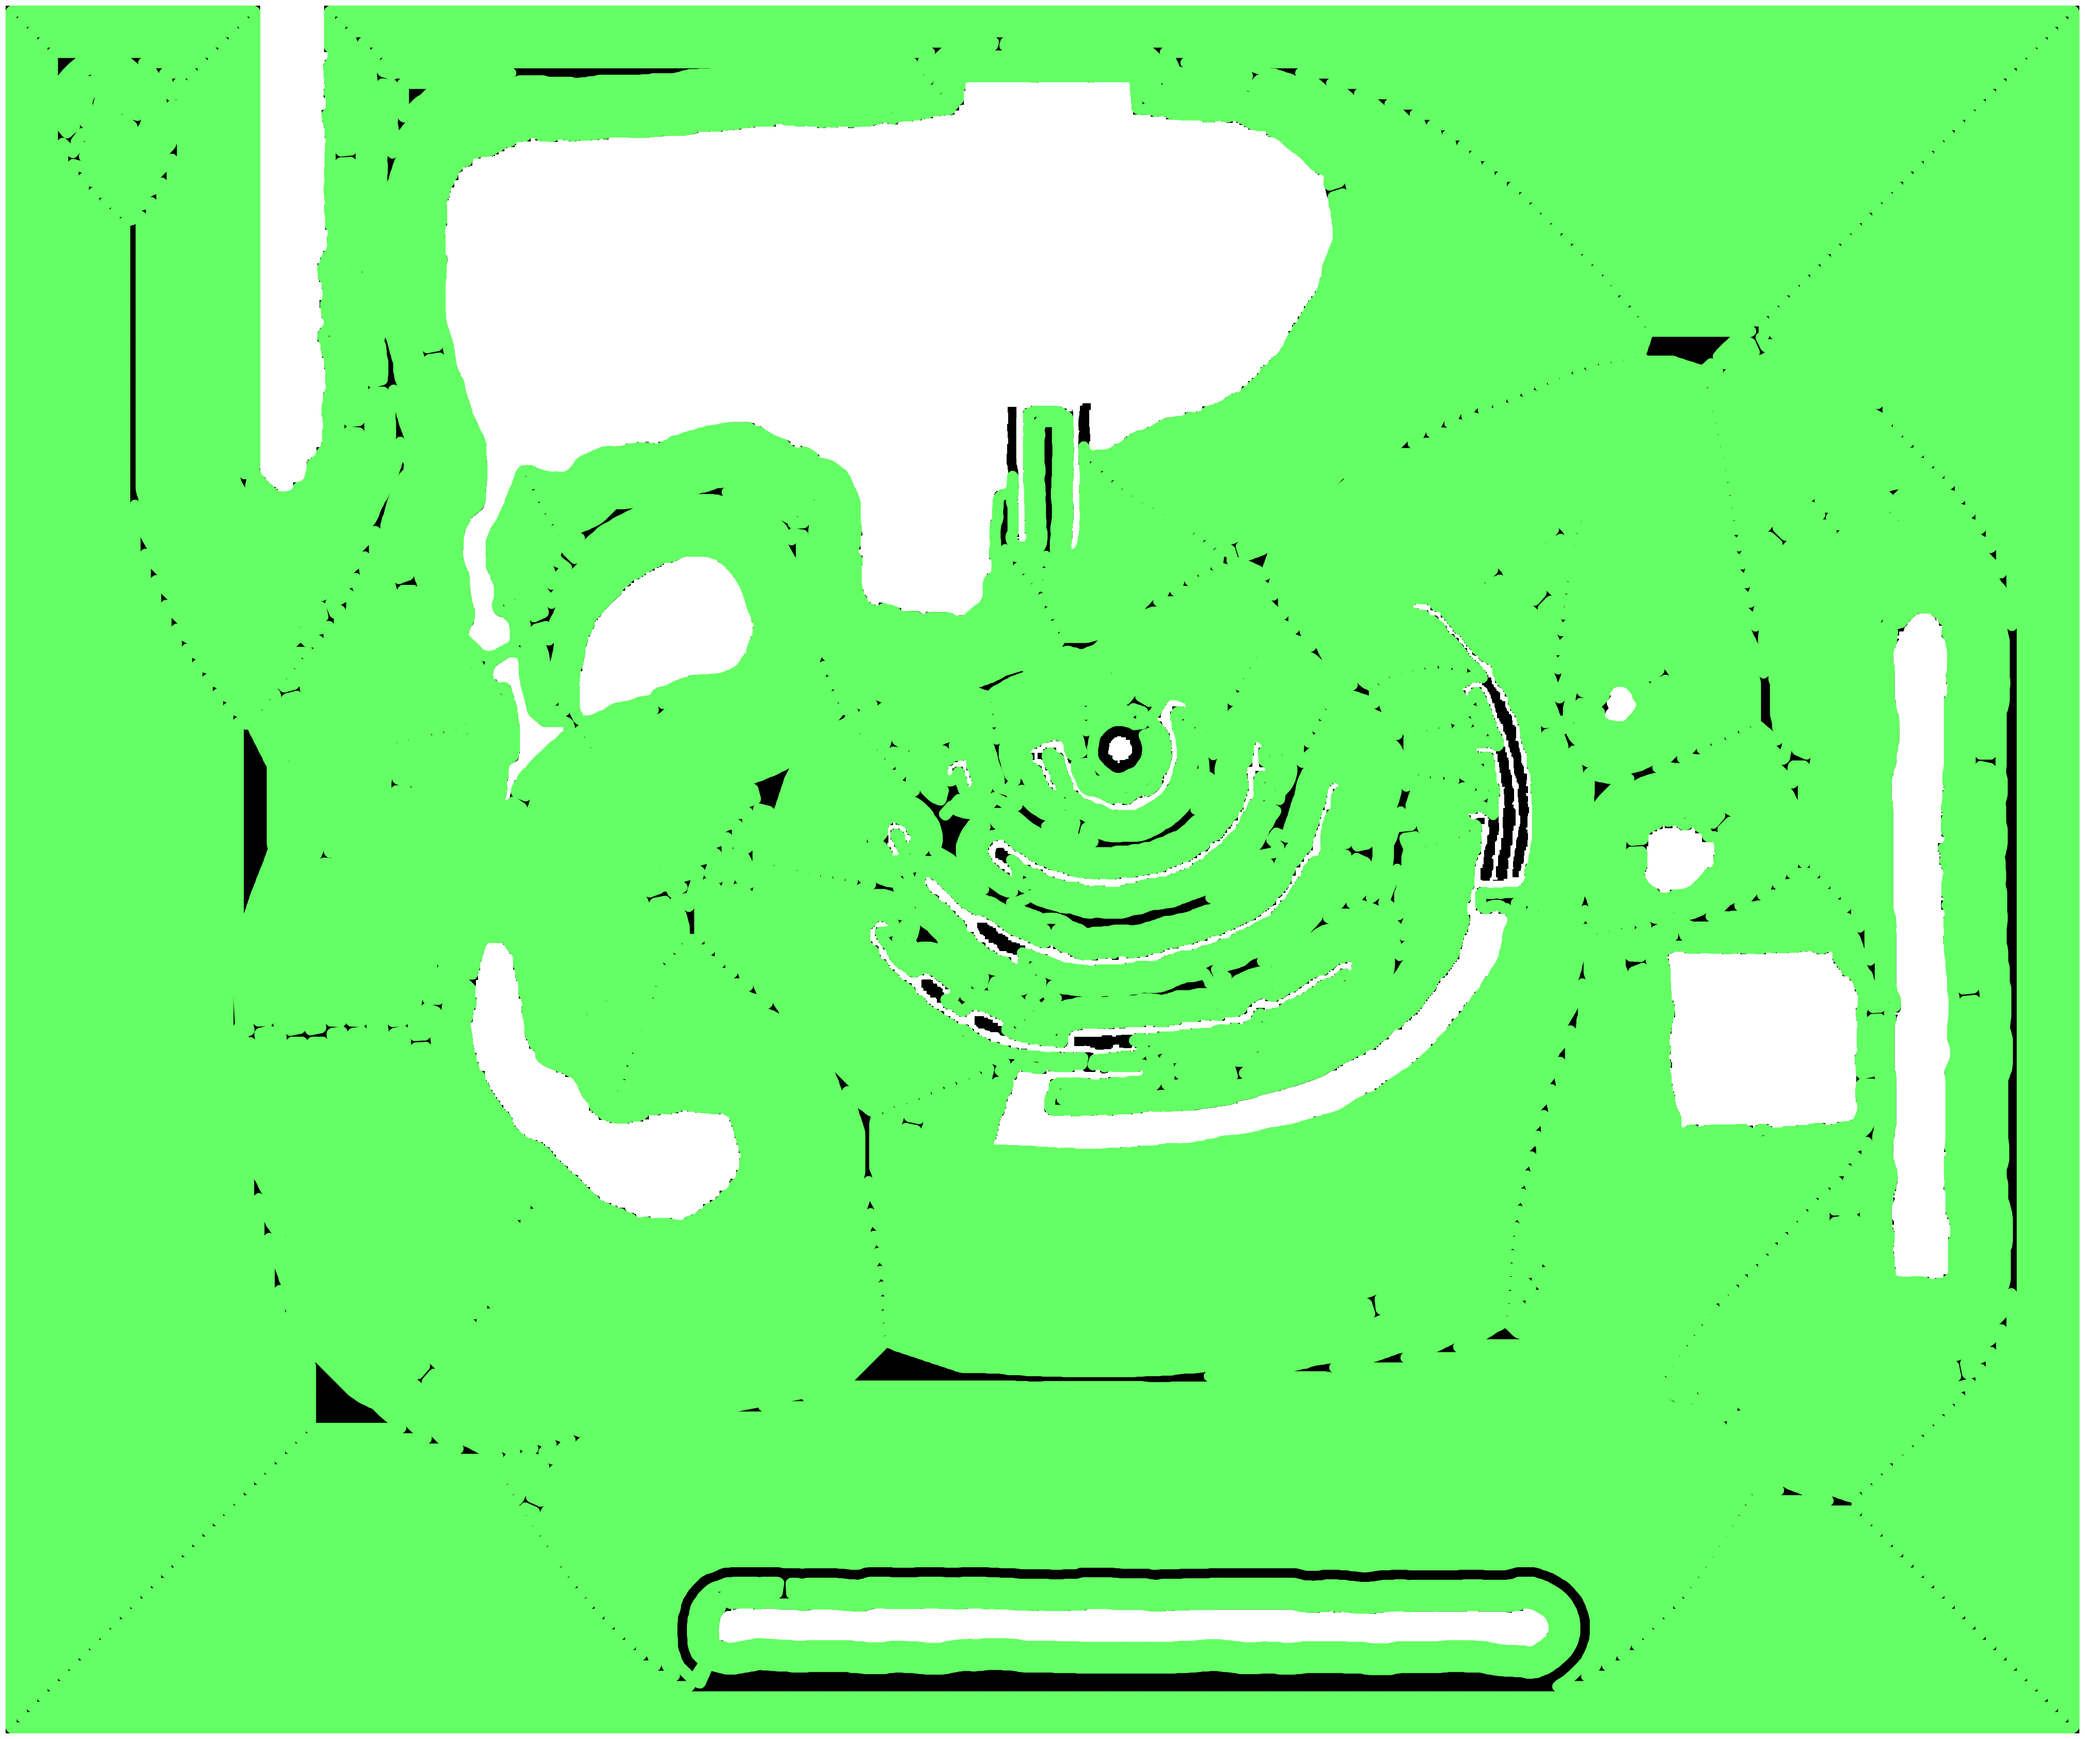
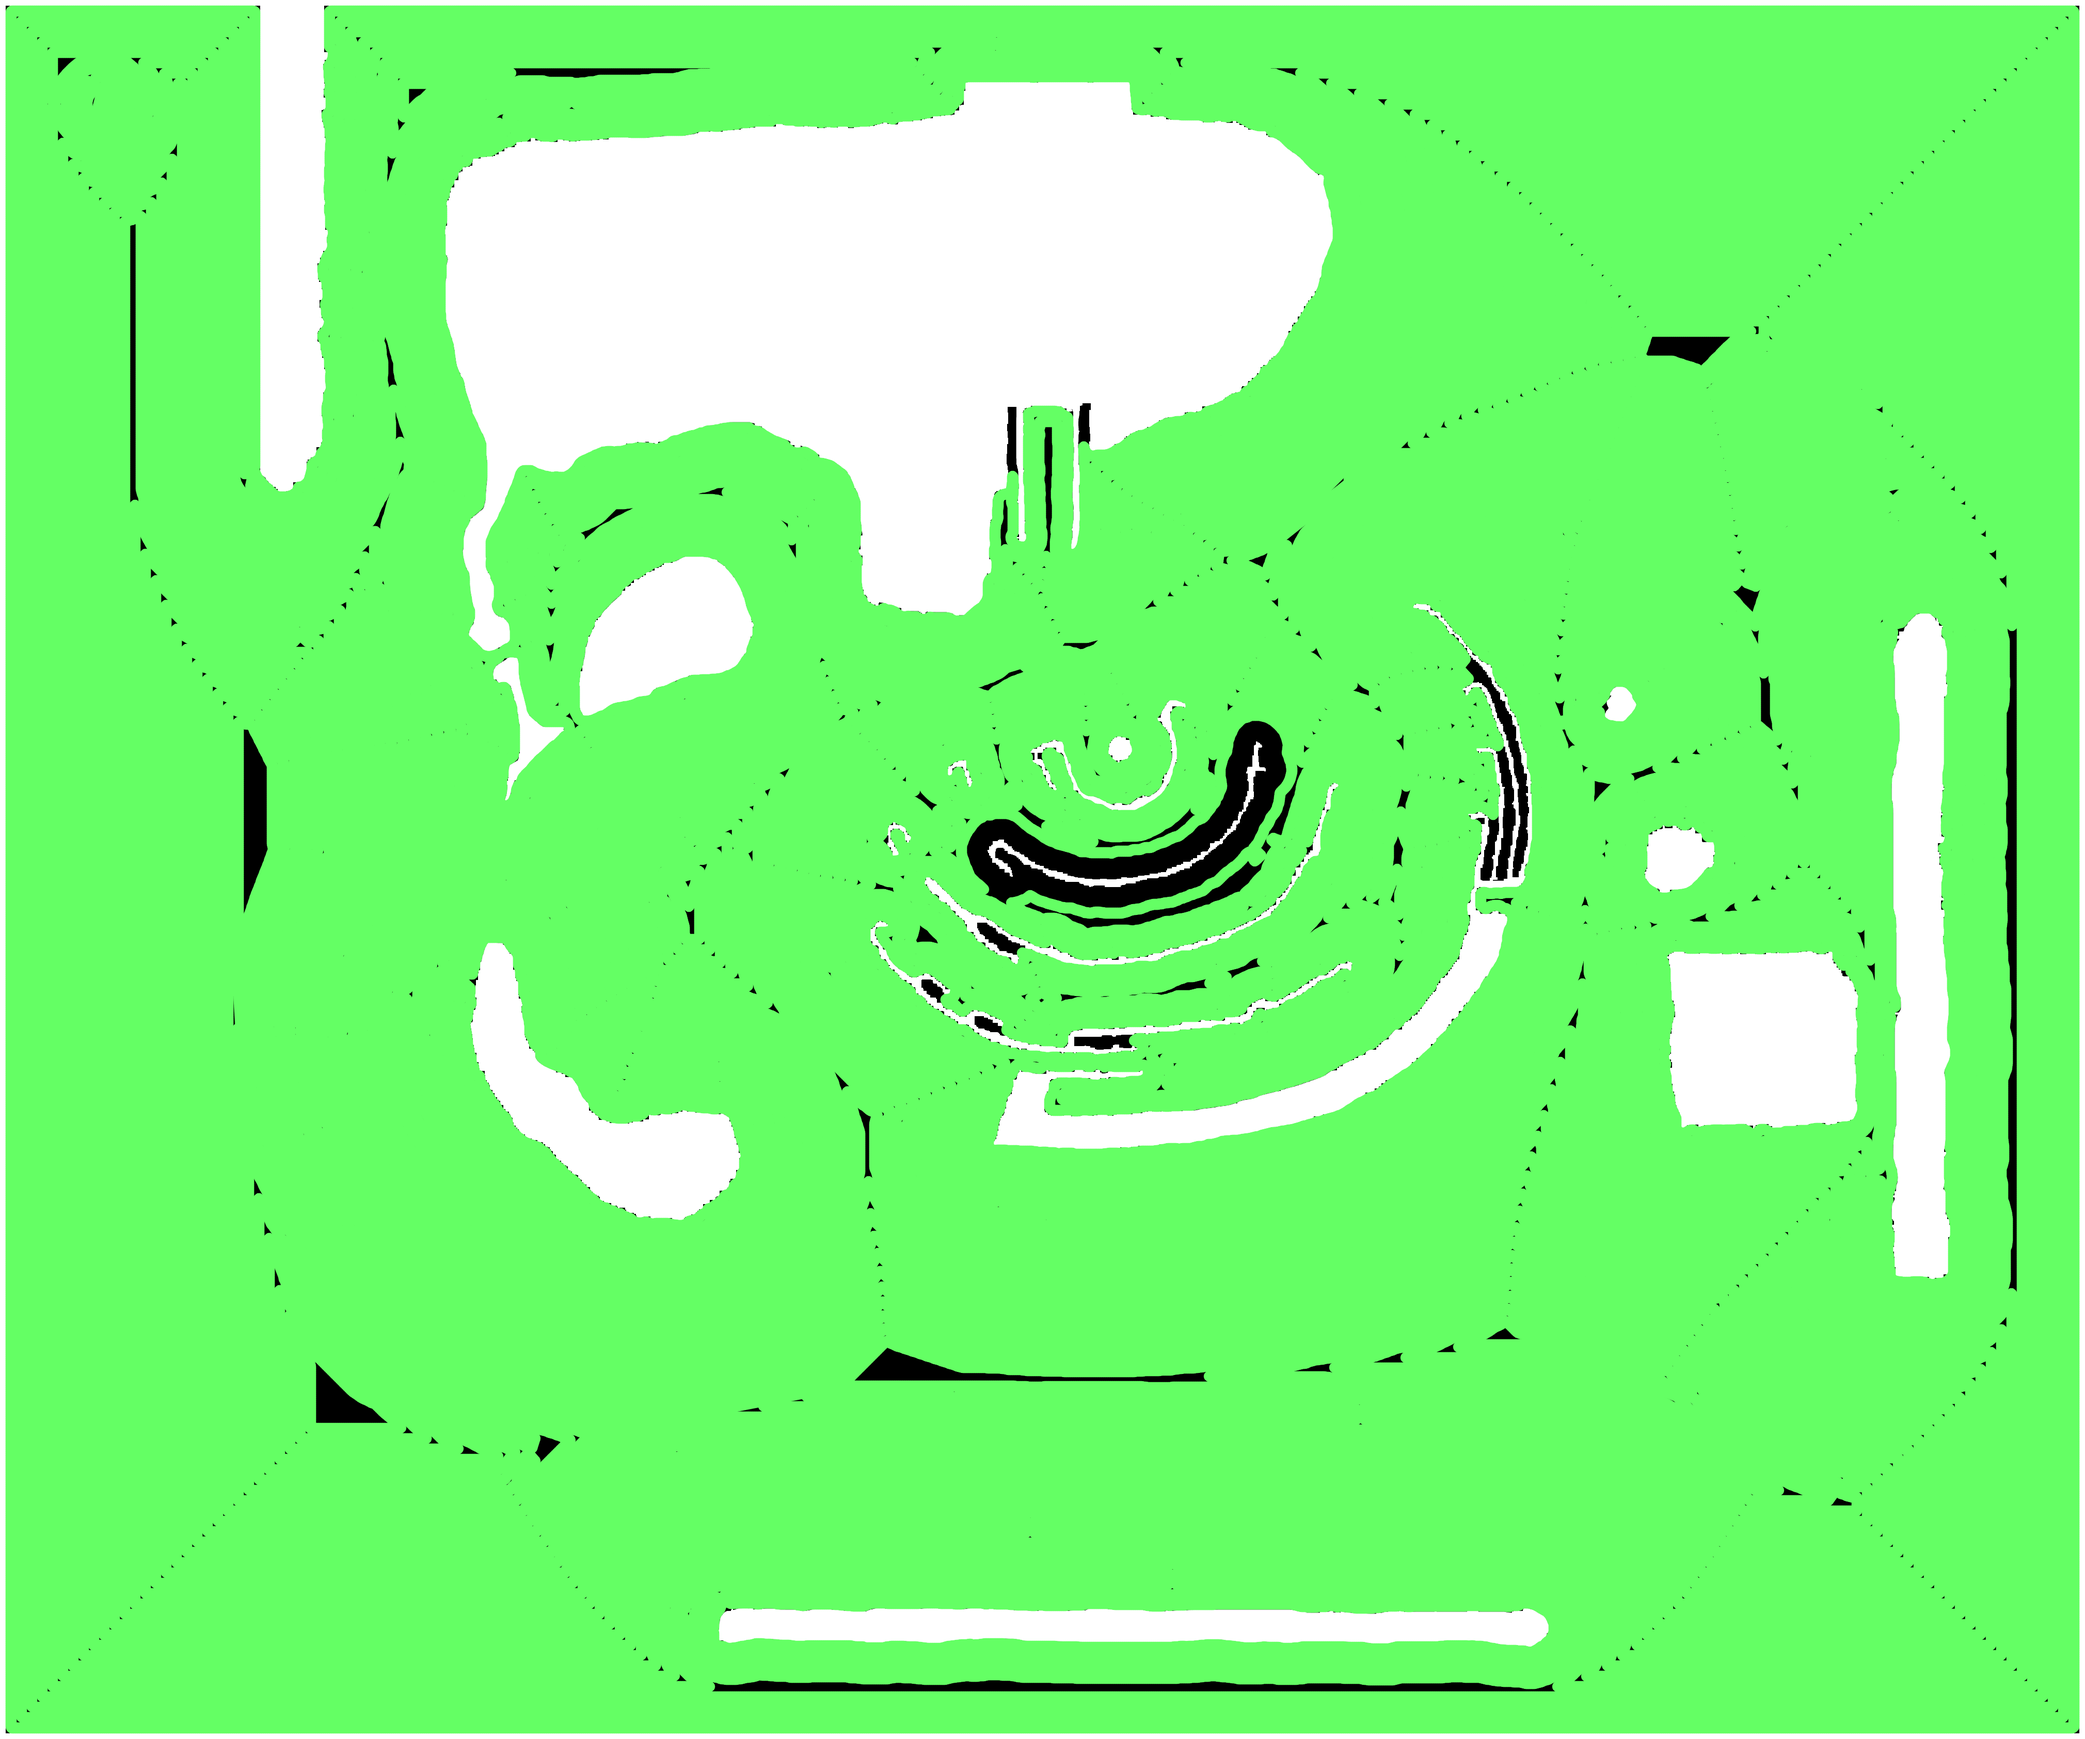
add 30cm cpp result

diff --git a/python/test.py b/python/test.py
@@ -500,9 +500,11 @@ def test_fill_from_CSS(filepath, offset, is_reverse_img=True):
         spiral_smooth = pathengine.suPath2D.resample_curve_by_equal_dist(spiral, abs(offset))
 
         # # Savitzky-Golay smoother
-        inter_size = int(abs(offset/3))
+        inter_size = int(abs(offset))
         if inter_size % 2 == 0:
             inter_size += 1
+        if inter_size < 5:
+            inter_size = 5
         poly_order = 3
         spiral_smooth = pe.smooth_curve_by_savgol(spiral_smooth, inter_size, poly_order)
 
@@ -583,4 +585,4 @@ if __name__ == '__main__':
     # test_segment_contours_in_region("../pre_pro.png", -20, True)
     # test_pocket_spiral("../pre_pro.png", -20, True)
     # test_filling_with_continues_spiral("../pre_pro.png", -30, True)
-    test_fill_from_CSS("../pre_pro.png", -20, True)
+    test_fill_from_CSS("../pre_pro.png", -10, True)
